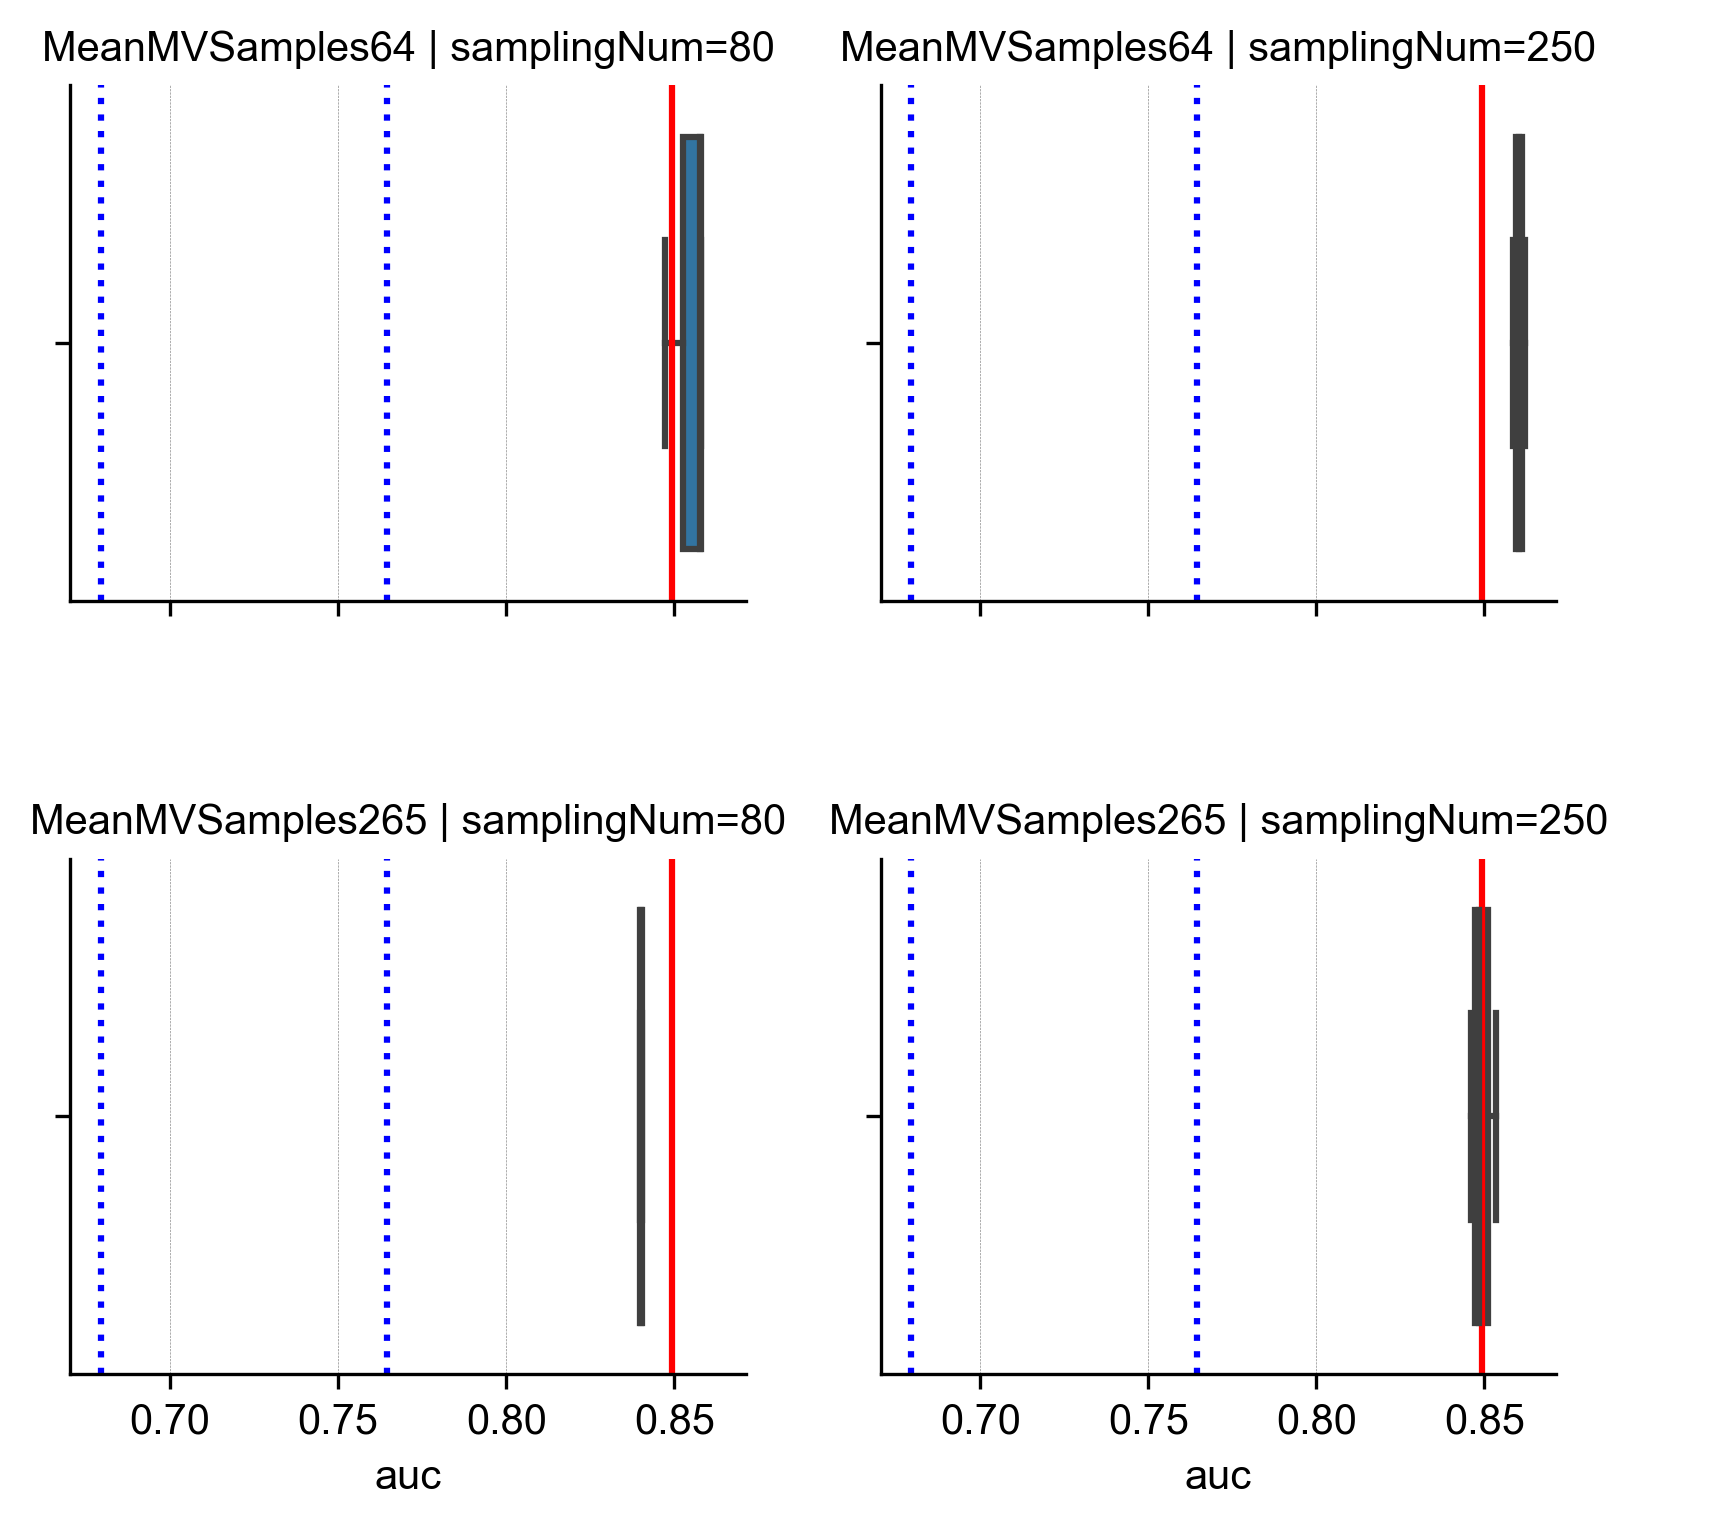
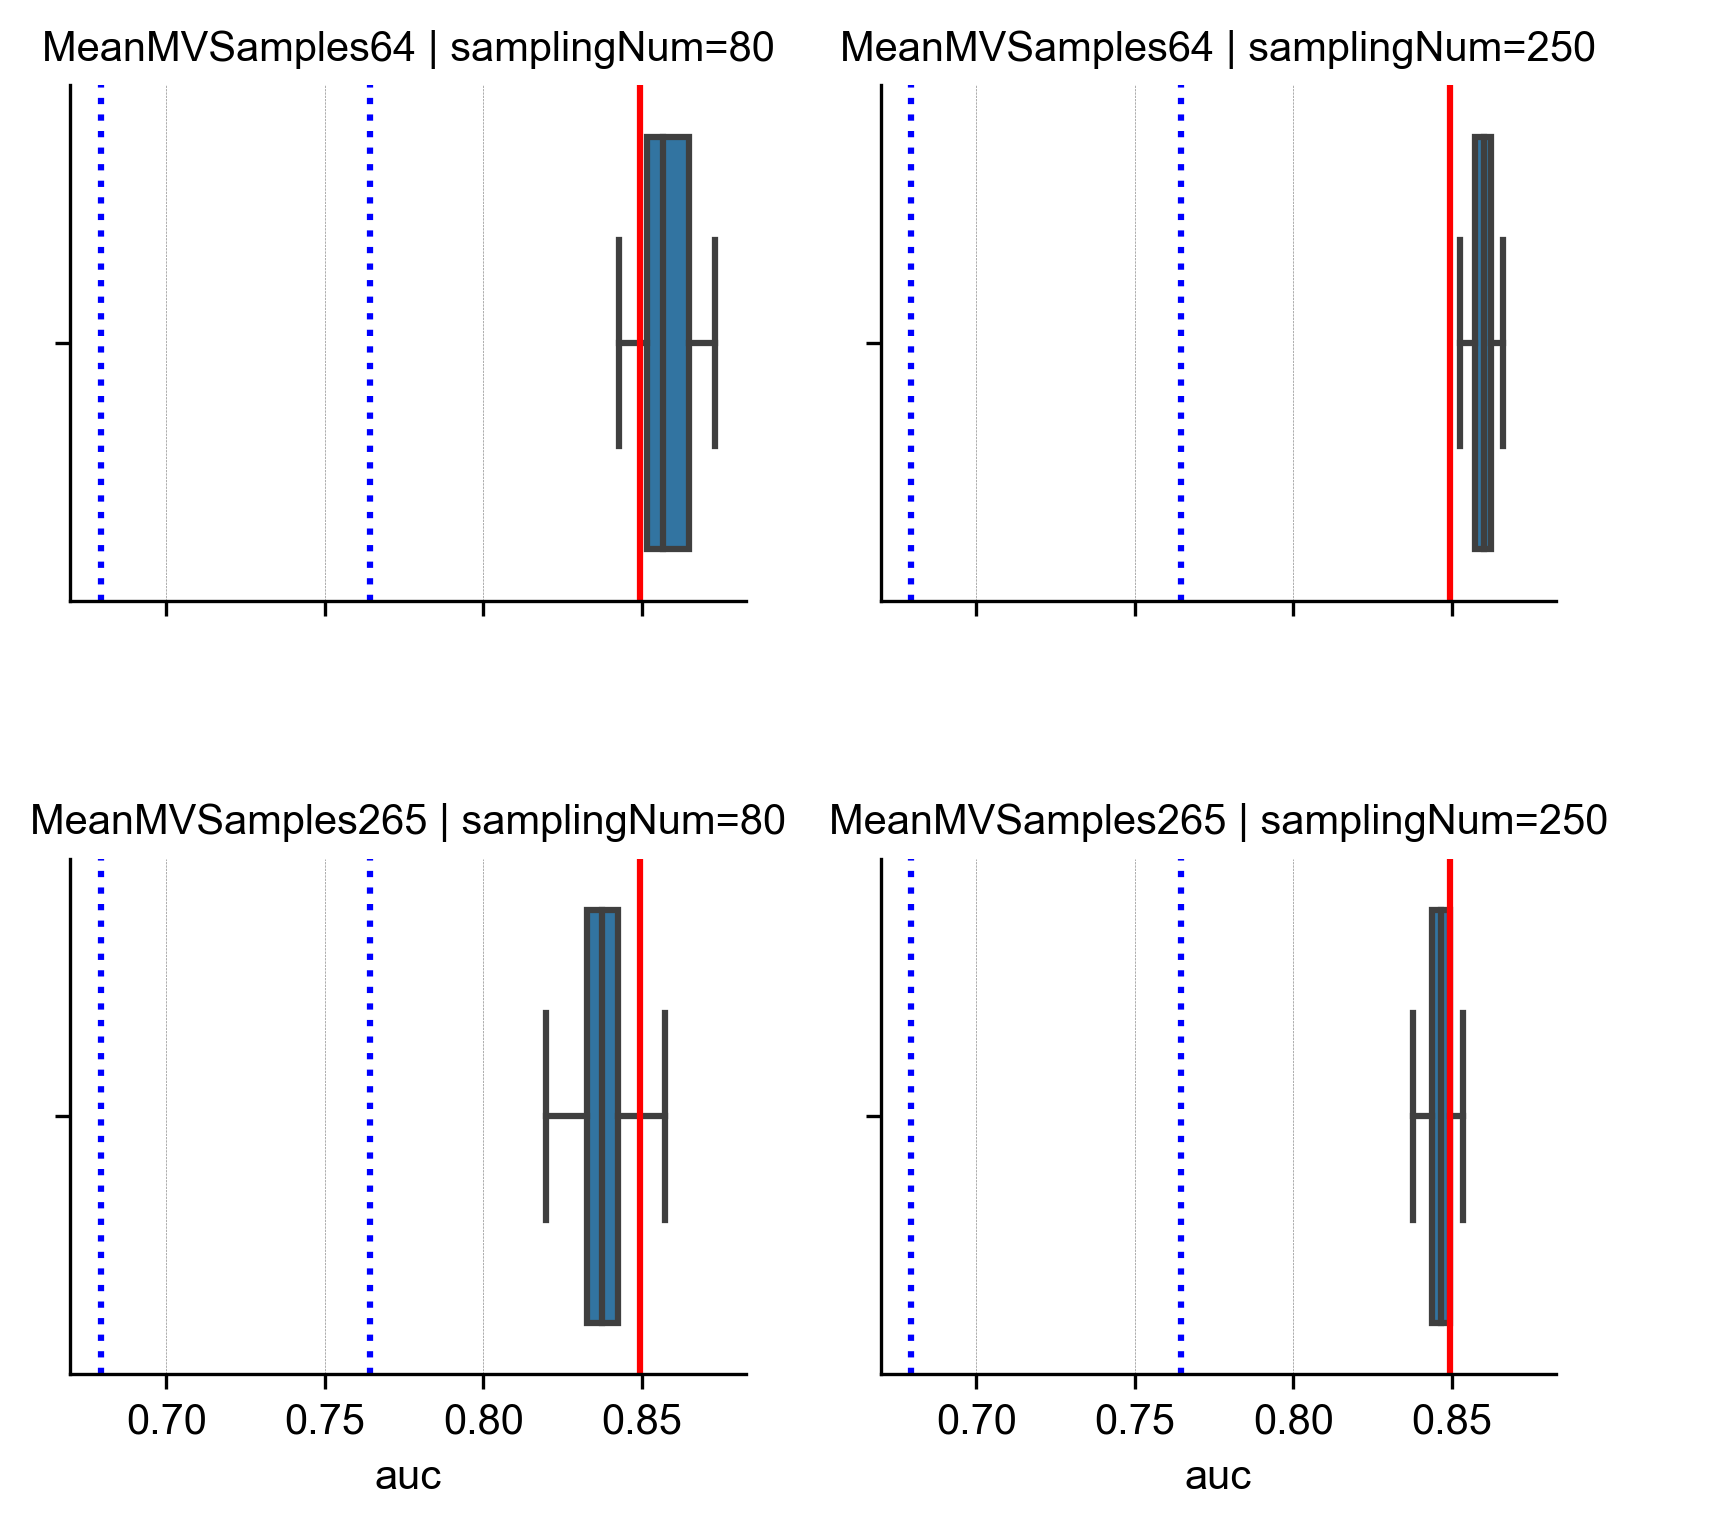
Testing Subsampling results

diff --git a/src/testingSubSampling.py b/src/testingSubSampling.py
@@ -7,9 +7,9 @@ import seaborn as sns
 import multiprocessing as mp
 from resources import CPUS, GeneDependency, DRPxPyInteractionPxModel, PyPxDrugInteractionModel, ResidualsLinearModel, ResiduesMatrix, read, PATH, ProteinsMatrix, PairwiseCorrMatrix
 
-def sampling(sampleNum: int, sampleList: list):
+def sampling(sampleNum: int, sampleList: list, meanMVSet: int):
     
-    iterationNum = 1000
+    iterationNum = 30
     proteinsData: ProteinsMatrix = read(PATH + '/internal/proteomics/mean75PVProteomics.pickle.gz')
     proteinsData =  proteinsData.data.loc[sampleList,:]
     aucData = {'auc':[], 'sampleNum':[], 'meanMVSet':[]}
@@ -24,7 +24,7 @@ def sampling(sampleNum: int, sampleList: list):
         auc = pairwiseCorr.aucCalculator(corum.name, 'Mean', 'p-value', True)
         aucData['auc'] = aucData['auc'] +  [auc]
         aucData['sampleNum'] = aucData['sampleNum'] + [sampleNum]
-        aucData['meanMVSet'] = aucData['meanMVSet'] + [round(sampledProteins.data.isna().sum(axis=1).mean())]
+        aucData['meanMVSet'] = aucData['meanMVSet'] + [meanMVSet]
         
     return aucData
 
@@ -55,7 +55,7 @@ if __name__ == '__main__':
     pararelList = []
     for sampleSet in sets:
         for sampleNum in sampleNums:
-            pararelList.append((sampleNum, sampleSet))
+            pararelList.append((sampleNum, sampleSet, round(pv75MeanDf.loc[sampleSet,:].isna().sum(axis=1).mean())))
     
     with mp.Pool(1) as process:
         aucList = process.starmap(sampling, pararelList)
